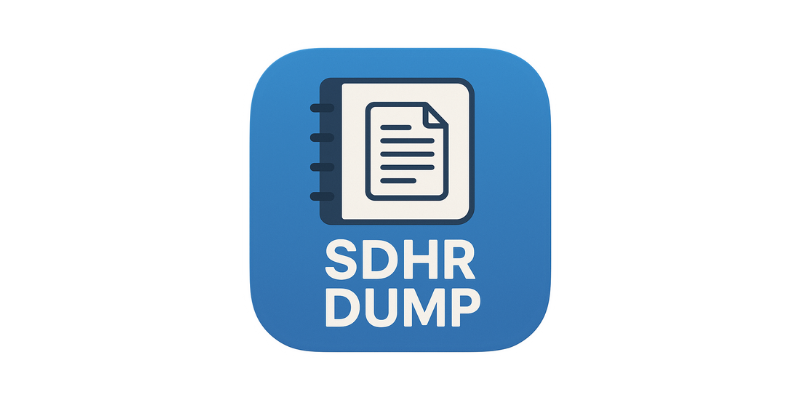
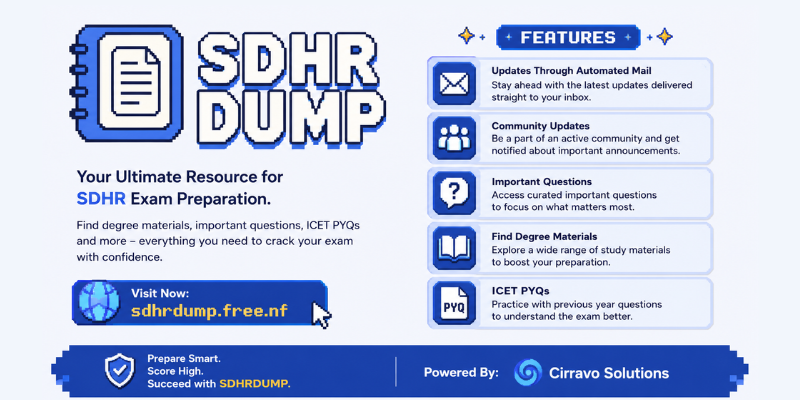
Appverse Applications Added

diff --git a/index.html b/index.html
@@ -196,6 +196,31 @@
       <p class="section-sub">Practical apps created to solve real student problems — </p>
     </div>
     <div class="apps-grid">
+
+      <div class="card app-card reveal" style="transition-delay:0.1s" id="iLikeCode">
+        <div class="appmedia-image">
+          <img src="pictures/iLikeCode.png" alt="iLikeCode App Icon" style="width:100%;height:100%;object-fit:cover;display:block;border-radius:inherit;">
+        </div>
+        <h3>iLikeCode</h3>
+        <p>Write, compile, and run programs anytime with a smooth coding experience. Get instant results with support for multiple programming languages. Built for students and developers who want coding to be simple and accessible.</p>
+        <div class="app-developer">Developed by <span><a href="https://cirravosolutions.co.in/" target="_blank" style="color:inherit;text-decoration:none;">Cirravo Solutions</a></span></div>
+        <div class="app-links">
+          <a href="https://1amgiri.itch.io/ilikecode" target="_blank" class="app-link link-solid"><i class="fas fa-download"></i> Download</a>
+        </div>
+      </div>
+
+      <div class="card app-card reveal" style="transition-delay:0.1s" id="Safex">
+        <div class="appmedia-image">
+          <img src="pictures/safex.png" alt="Safex App Icon" style="width:100%;height:100%;object-fit:cover;display:block;border-radius:inherit;">
+        </div>
+        <h3>Safex</h3>
+        <p>Securely store passwords, files, and private notes directly on your device. Protect sensitive information with strong encryption and local-only storage. Enjoy complete privacy, fast access, and full control of your data.</p>
+        <div class="app-developer">Developed by <span><a href="https://cirravosolutions.co.in/" target="_blank" style="color:inherit;text-decoration:none;">Cirravo Solutions</a></span></div>
+        <div class="app-links">
+          <a href="https://1amgiri.itch.io/safex" target="_blank" class="app-link link-solid"><i class="fas fa-download"></i> Download</a>
+        </div>
+      </div>
+
       <div class="card app-card reveal" style="transition-delay:0.2s" id="rammagicsquare">
           <div class="appmedia-image">
           <img src="pictures/magicsquare.png" alt="App Icon" style="width:100%;height:100%;object-fit:cover;display:block;border-radius:inherit;">
@@ -207,6 +232,7 @@
           <a href="https://rammagicsquare.vercel.app" target="_blank" class="app-link link-solid"><i class="fas fa-external-link-alt"></i> Try It</a>
         </div>
       </div>
+
       <div class="card app-card reveal" style="transition-delay:0.25s" id="sac">
          <div class="appmedia-image">
          <img src="pictures/sac.png" alt="App Icon" style="width:100%;height:100%;object-fit:cover;display:block;border-radius:inherit;">
@@ -218,6 +244,7 @@
           <a href="https://sacsite.vercel.app" target="_blank" class="app-link link-solid"><i class="fas fa-calculator"></i> Calculate</a>
         </div>
       </div>
+
       <div class="card app-card reveal" style="transition-delay:0.05s" id="buildmyresume">
          <div class="appmedia-image">
             <img src="pictures/buildyourresume.jpg" alt="App Icon" style="width:100%;height:100%;object-fit:cover;display:block;border-radius:inherit;">
@@ -225,35 +252,38 @@
         <h3>Build My Resume</h3>
         <p>Create your professional resumes in minutes – simple, free & ready to download.</p>
         <p> Whether you’re a student, fresher, or professional, this tool makes resume building easy & quick.</p>
-        <div class="app-developer">Developed by <span>Cirravo Solutions</span></div>
+        <div class="app-developer">Developed by <span><a href="https://cirravosolutions.co.in/" target="_blank" style="color:inherit;text-decoration:none;">Cirravo Solutions</a></span></div>
         <div class="app-links">
           <a href="https://1amgiri.itch.io/build-my-resume" target="_blank" class="app-link link-solid"><i class="fas fa-download"></i> Download</a>
           <a href="https://buildmyresume.free.nf/" target="_blank" class="app-link link-outline"><i class="fas fa-external-link-alt"></i> Website</a>
         </div>
       </div>
+
       <div class="card app-card reveal" style="transition-delay:0.1s" id="sdhrdump">
         <div class="appmedia-image">
           <img src="pictures/sdhrdump.png" alt="SDHR Dump App Icon" style="width:100%;height:100%;object-fit:cover;display:block;border-radius:inherit;">
         </div>
         <h3>SDHR Dump</h3>
-        <p>The website sdhr.free.nf is a student-run platform dedicated to sharing study materials for SDHR Degree and PG College in Tirupati. It offers a variety of resources, including notes, assignments, and records, across different subjects.</p>
-        <div class="app-developer">Developed by <span>Cirravo Solutions</span></div>
+        <p>Access semester-wise notes, question banks, and previous year papers in one place. Receive instant email updates for newly uploaded materials and announcements. Learn smarter with community updates, important questions, and ICET PYQs.</p>
+        <div class="app-developer">Developed by <span><a href="https://cirravosolutions.co.in/" target="_blank" style="color:inherit;text-decoration:none;">Cirravo Solutions</a></span></div>
         <div class="app-links">
           <a href="https://1amgiri.itch.io/sdhr-dump" target="_blank" class="app-link link-solid"><i class="fas fa-download"></i> Download</a>
-          <a href="https://sdhr.free.nf/" target="_blank" class="app-link link-outline"><i class="fas fa-external-link-alt"></i> Website</a>
+          <a href="https://sdhrdump.free.nf/" target="_blank" class="app-link link-outline"><i class="fas fa-external-link-alt"></i> Website</a>
         </div>
       </div>
+
       <div class="card app-card reveal" style="transition-delay:0.15s" id="cirravogames">
           <div class="appmedia-image">
           <video src="videos/cirravogames.mp4" autoplay loop muted playsinline style="width:100%;height:100%;object-fit:cover;display:block;border-radius:inherit;"></video>
           </div>
         <h3>CirravoGames</h3>
         <p>CirravoGames is a gaming website where you can play and enjoy fun games like Snake, Brick Breaker, Math Quiz, Typing Speed Test, and Truth or Dare. It’s a perfect place to relax, challenge yourself, and have fun!</p>
-        <div class="app-developer">Developed by <span>Cirravo Solutions</span></div>
+        <div class="app-developer">Developed by <span><a href="https://cirravosolutions.co.in/" target="_blank" style="color:inherit;text-decoration:none;">Cirravo Solutions</a></span></div>
         <div class="app-links">
           <a href="https://cirravogames.free.nf/" target="_blank" class="app-link link-solid"><i class="fas fa-play"></i> Play Now</a>
         </div>
       </div>
+
       <div class="card app-card reveal" style="transition-delay:0.3s" id="submitapp">
         <div class="app-icon">➕</div>
         <h3>Submit Your App</h3>